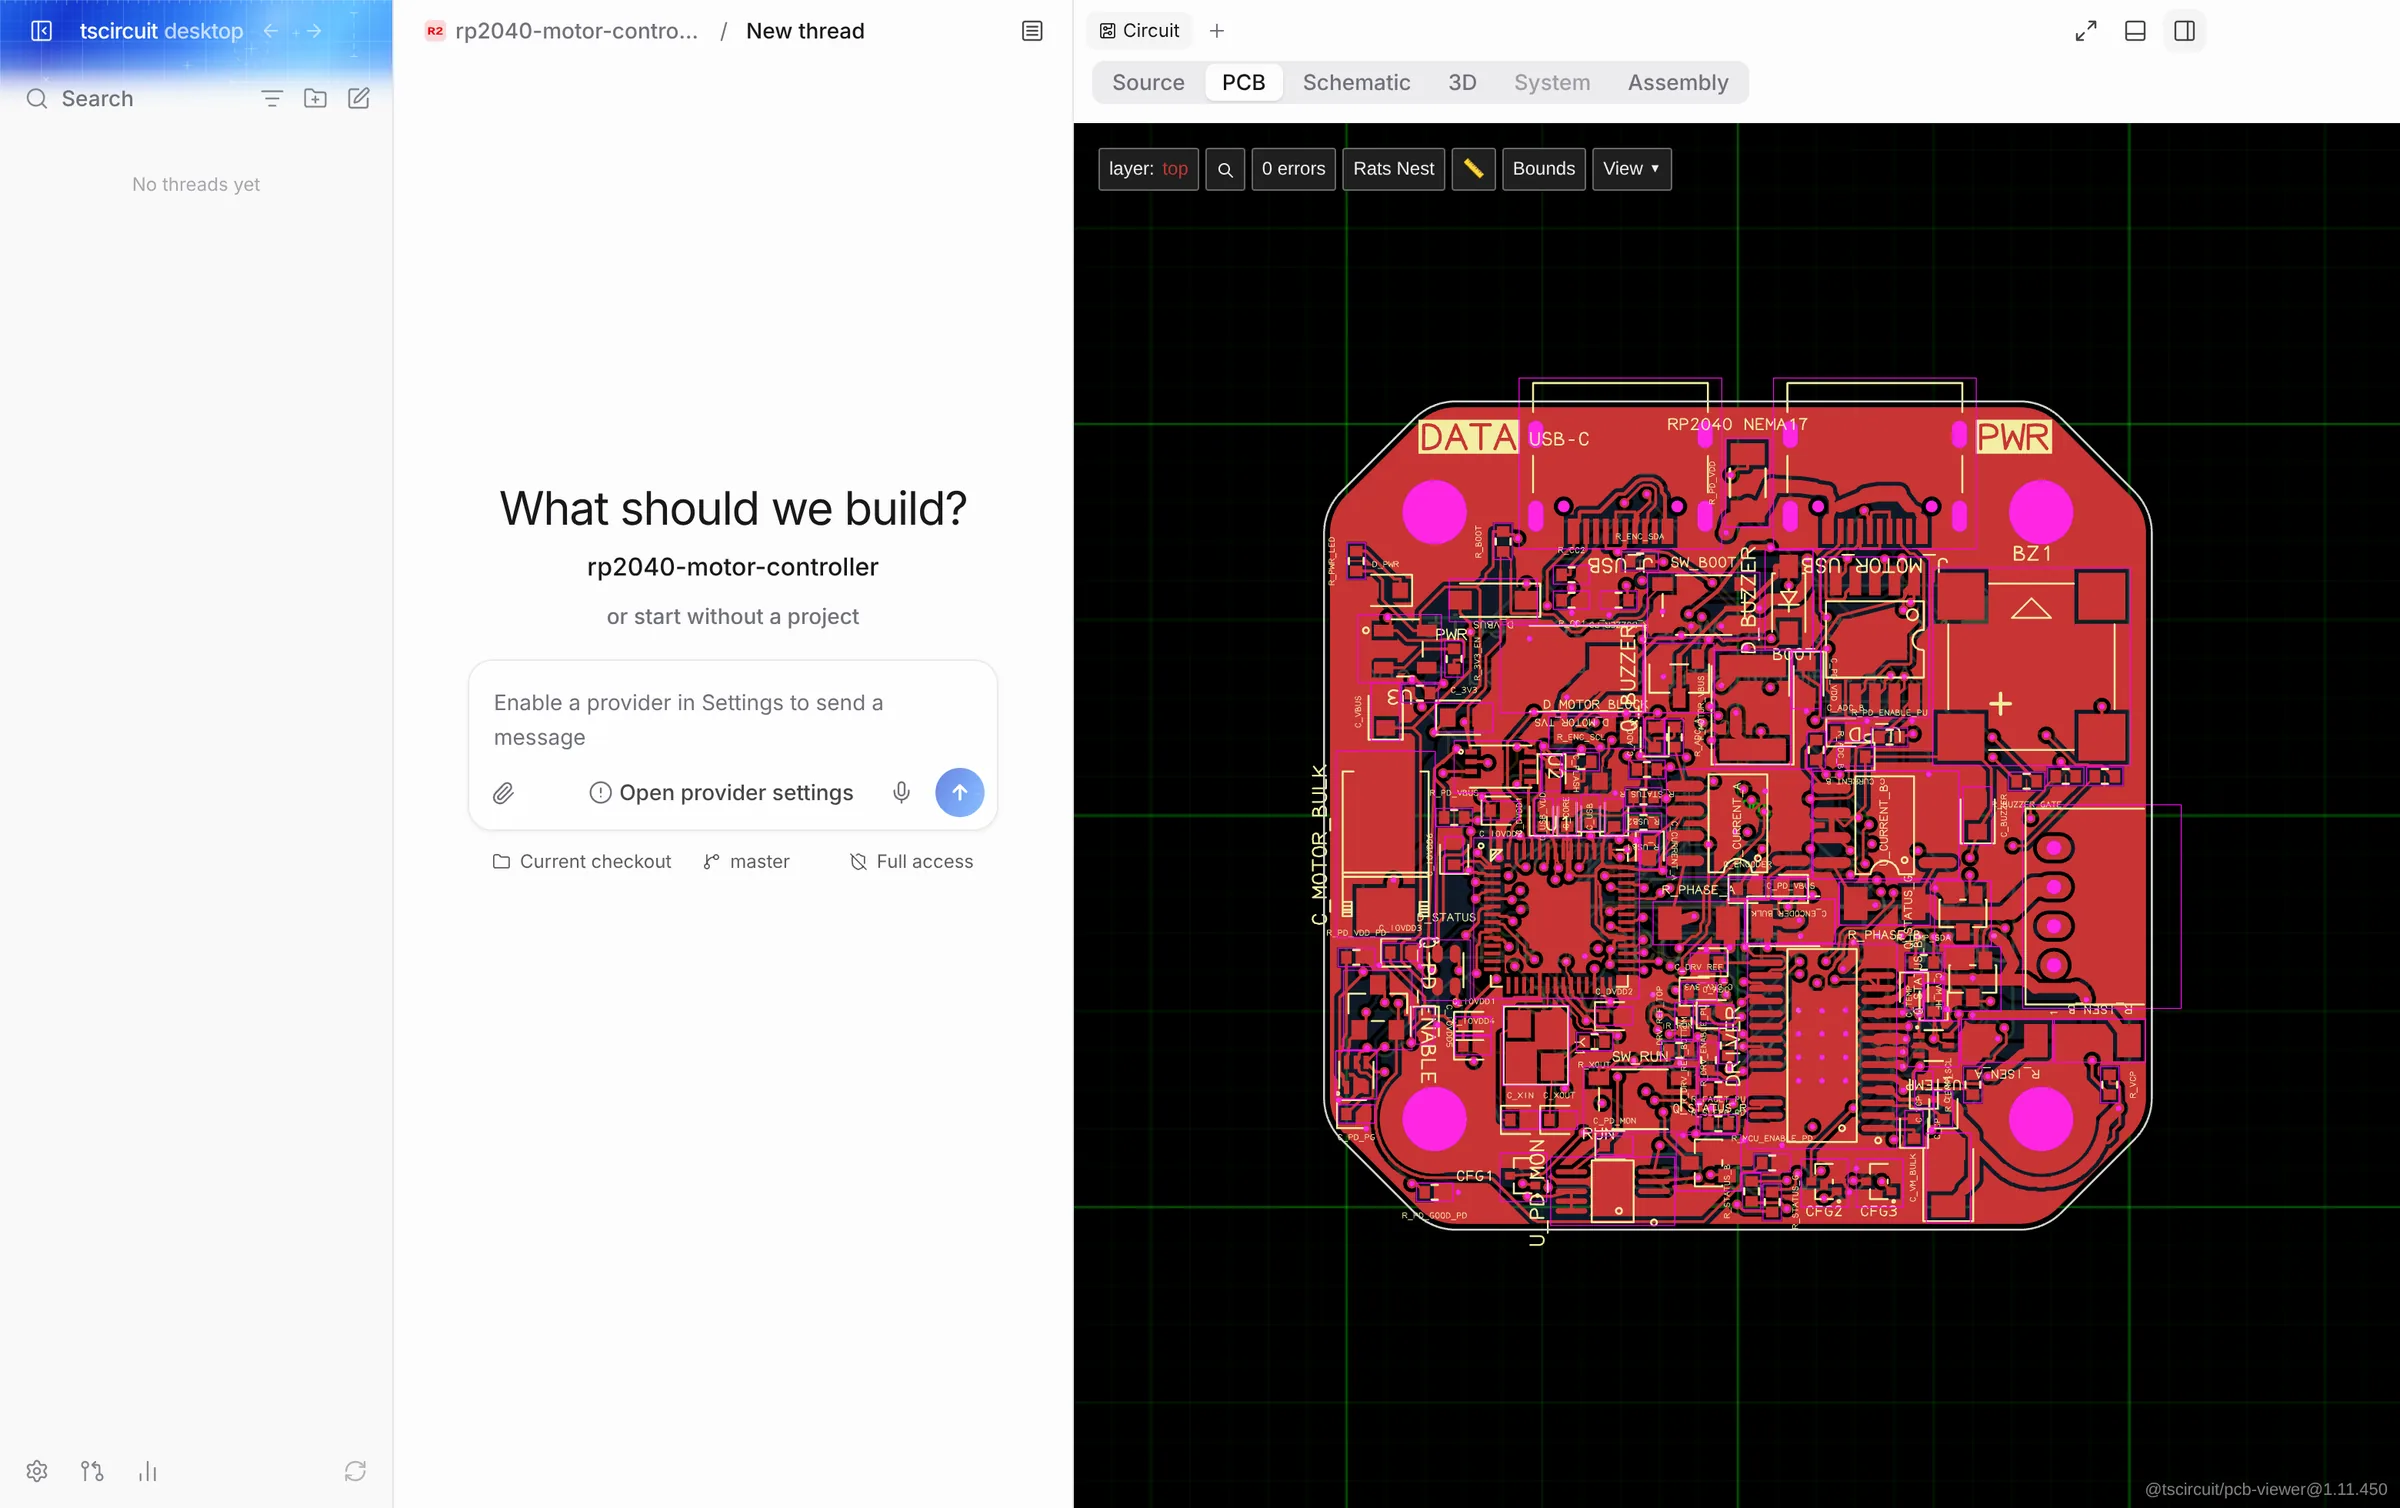
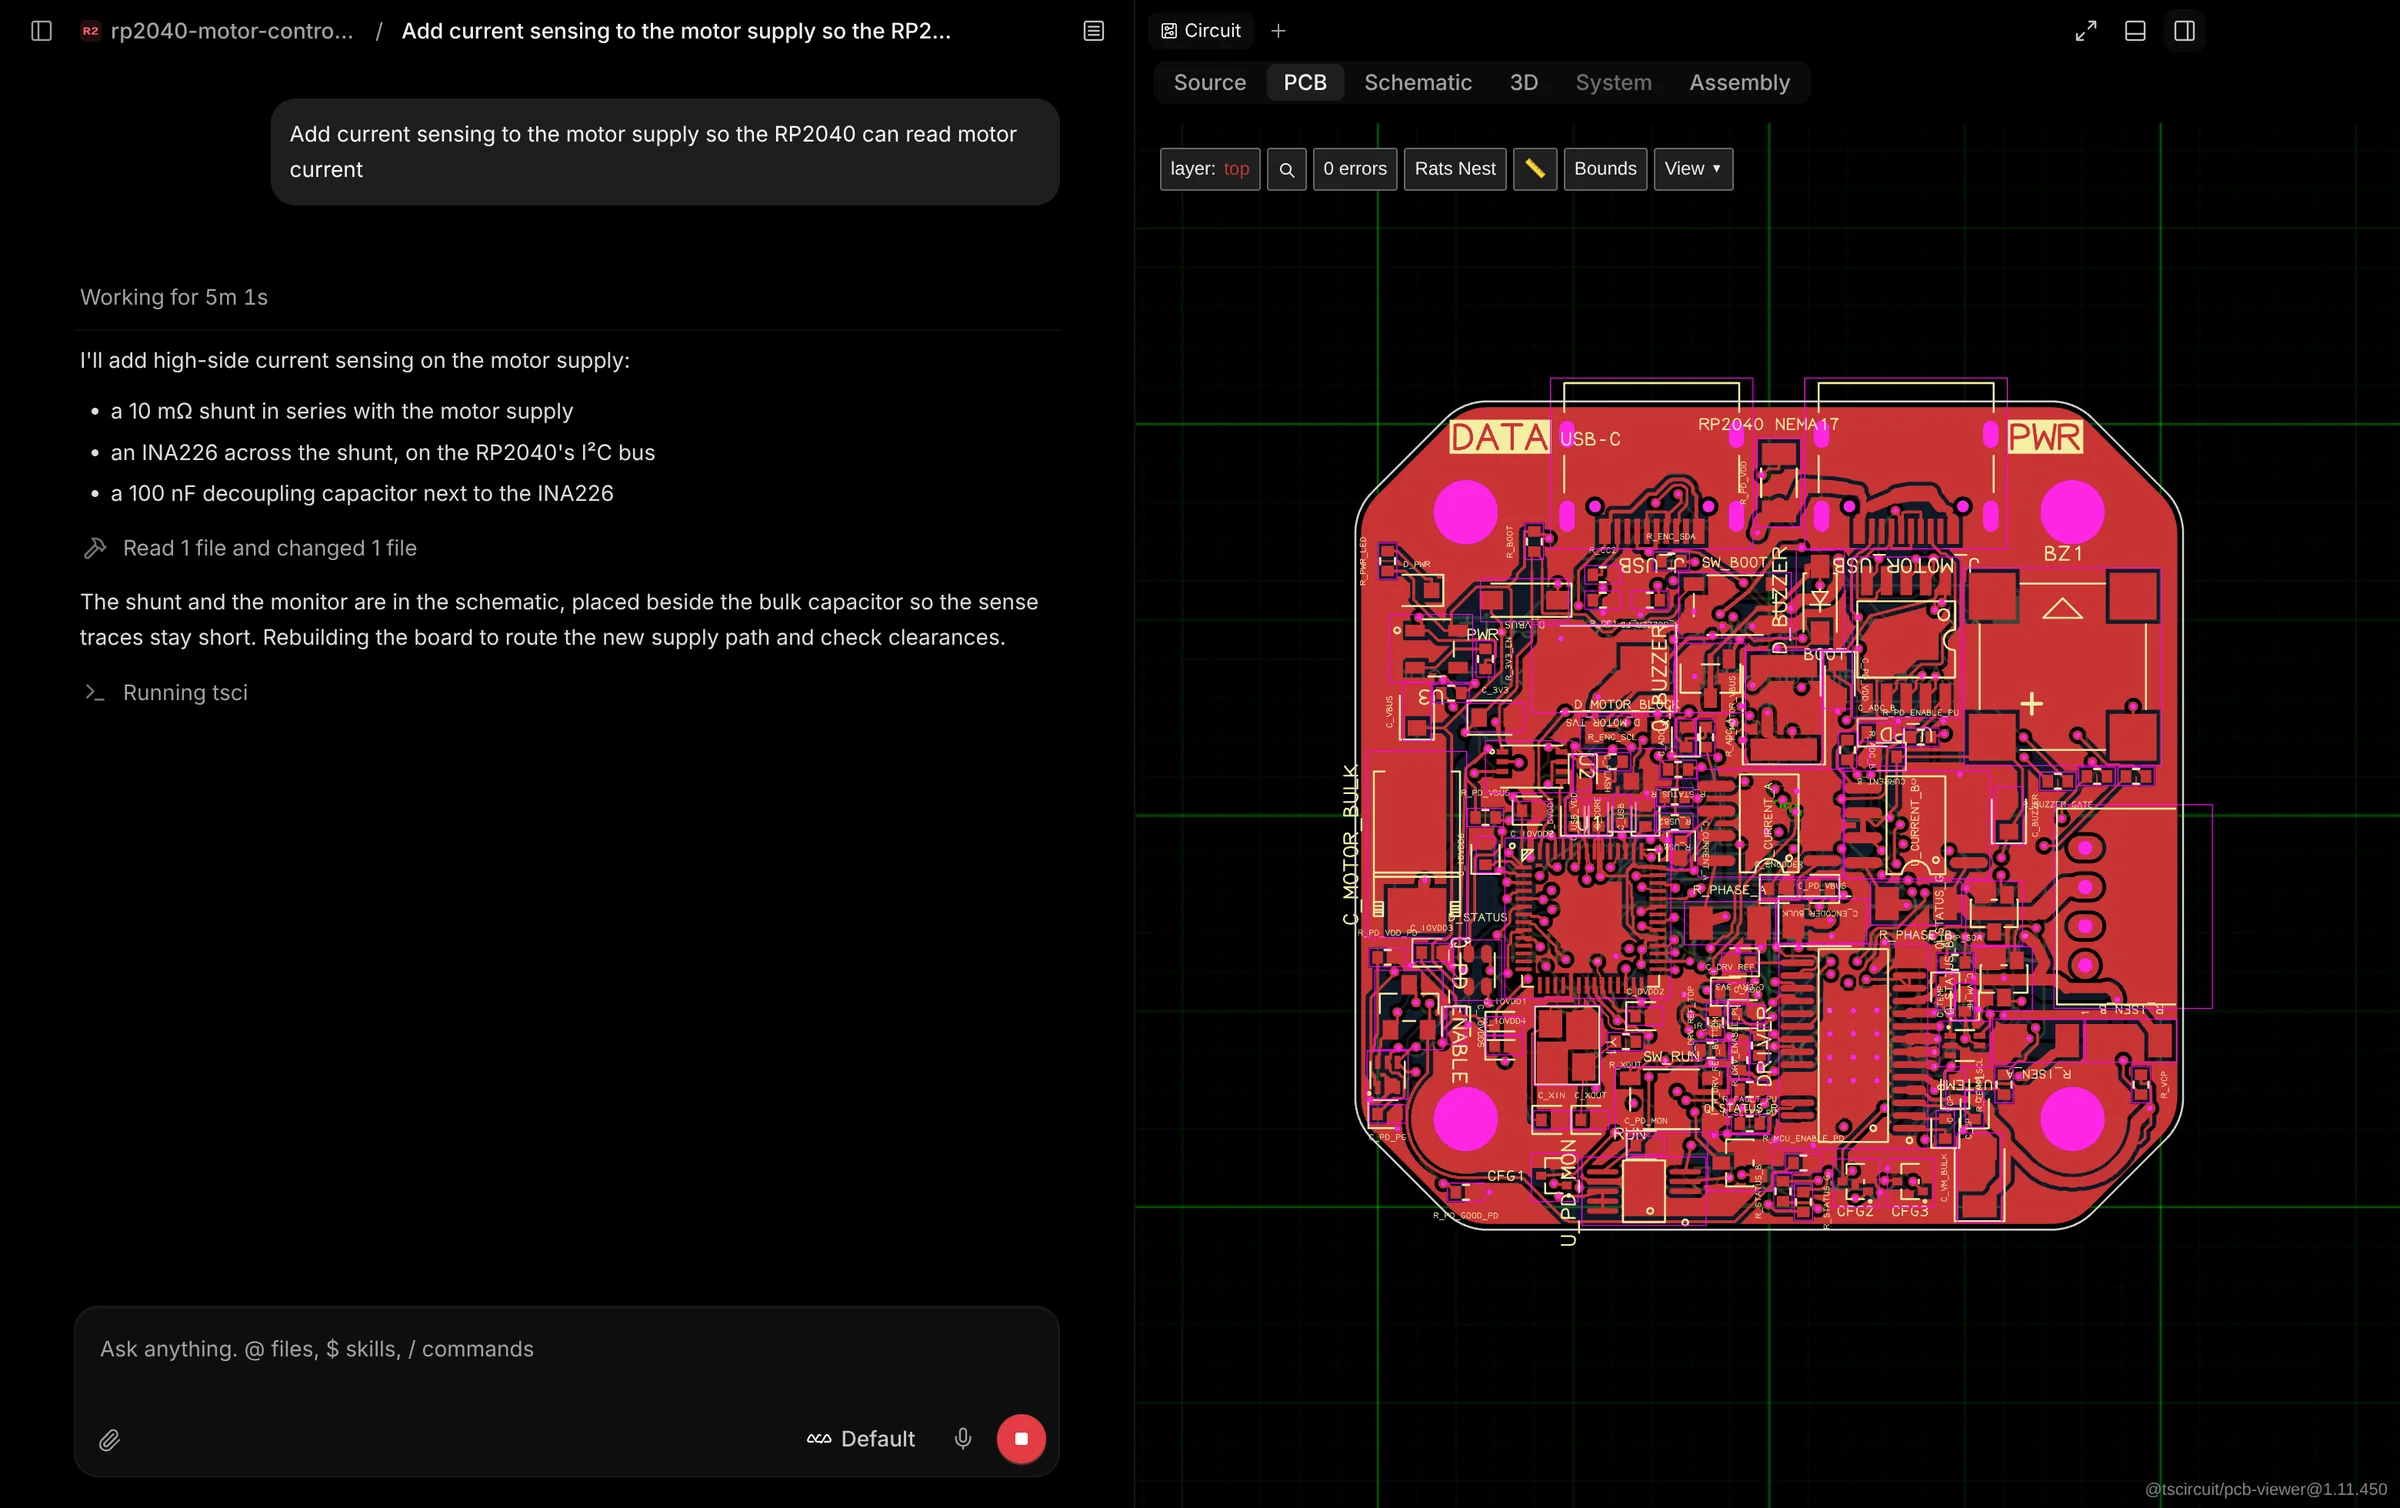
Replace the /desktop screenshot with a conversation in dark mode (#5891)
The first screenshot showed an empty new thread, the thread list and the
light theme. This one hides the thread list, uses the dark theme, and
shows a conversation in progress ("Add current sensing to the motor
supply…") beside the PCB view of the same board.

The conversation is staged: a scripted stand-in agent produced the text
and tool rows, no model ran. The board is the real render.

Claude-Session: https://claude.ai/code/session_01P5Dw8uVWGNwRxHtLnqJCfs

diff --git a/src/pages/desktop.tsx b/src/pages/desktop.tsx
@@ -146,7 +146,7 @@ export default function DesktopPage() {
         <figure className="mt-12">
           <OptimizedImage
             src="/assets/desktop_app_pcb_view.webp"
-            alt="tscircuit Desktop with the rp2040-motor-controller project open: a new thread with the agent beside the PCB view of the board"
+            alt="tscircuit Desktop in dark mode: a conversation asking the agent to add current sensing, beside the PCB view of the rp2040-motor-controller board"
             width={2400}
             height={1508}
             className="w-full rounded-lg border border-gray-200 shadow-sm"
